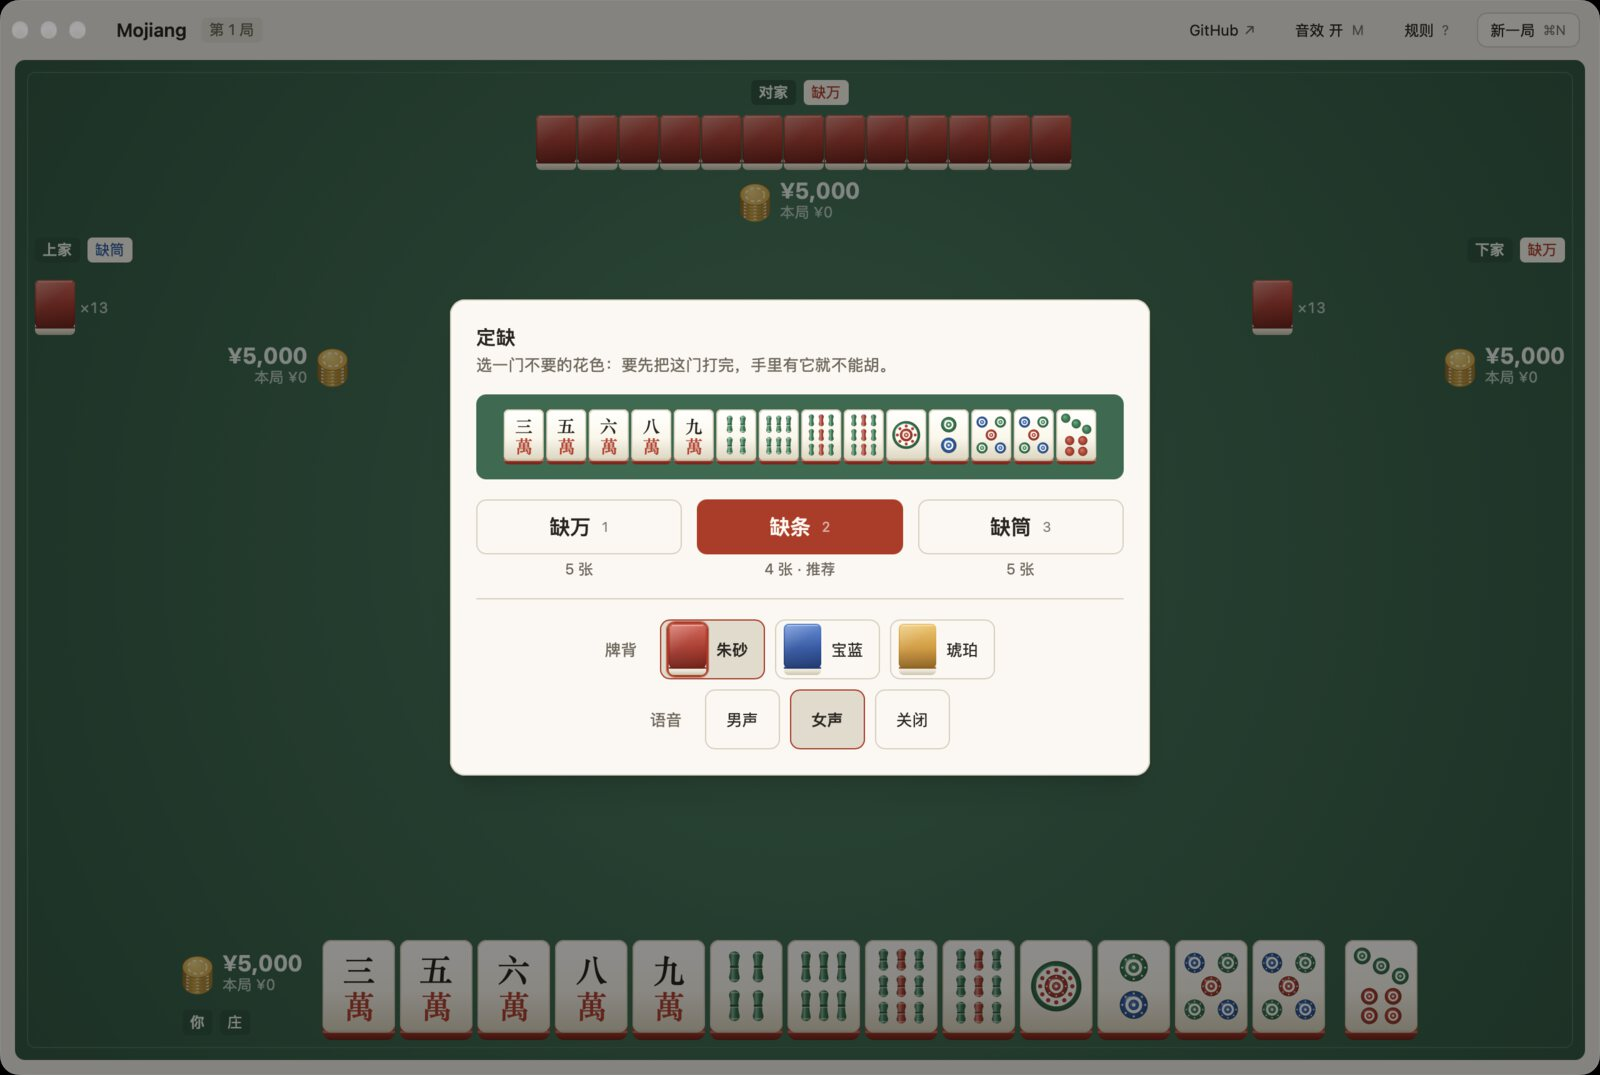
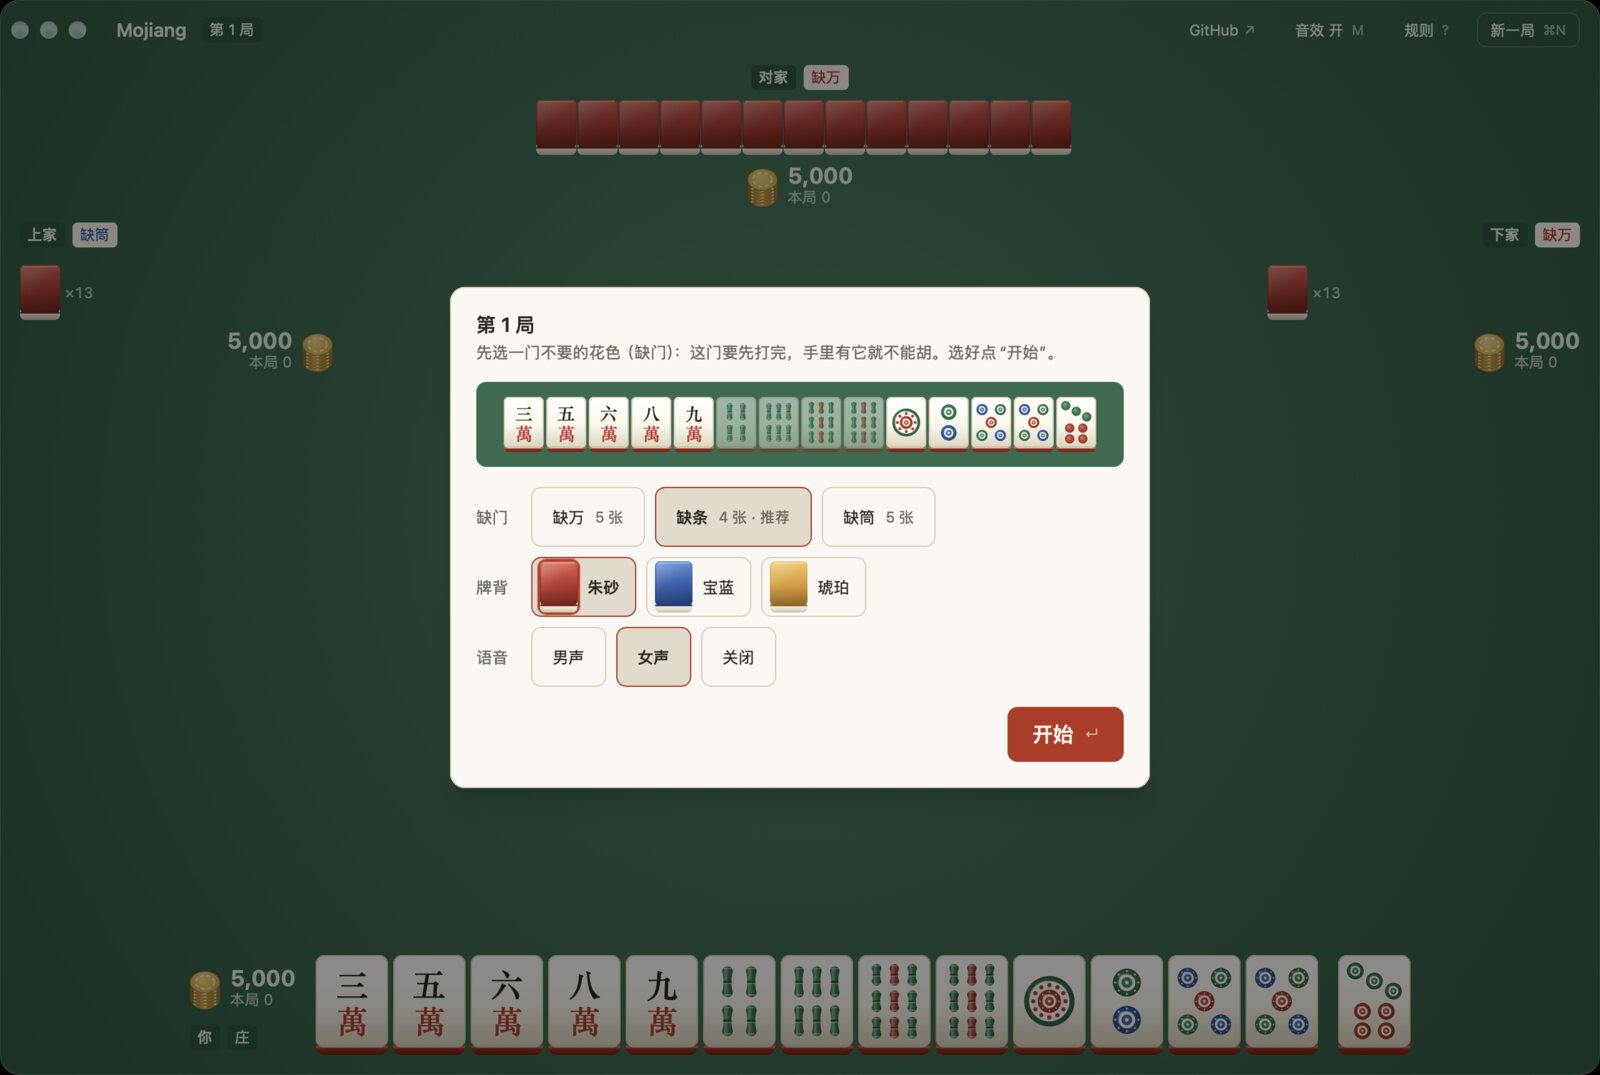
README: iPhone screenshot, screenshots of the current UI

diff --git a/README.md b/README.md
@@ -6,9 +6,13 @@
 
 ![牌桌（深色）](docs/screenshots/table-dark.jpg)
 
-| 开局定缺，选牌背和语音 | 一局结算 |
+| 开局：选缺门、牌背和语音，再点“开始” | 一局结算 |
 |---|---|
-| ![定缺](docs/screenshots/start-light.jpg) | ![结算](docs/screenshots/result-light.jpg) |
+| ![开局](docs/screenshots/start-light.jpg) | ![结算](docs/screenshots/result-light.jpg) |
+
+iPhone 横屏：
+
+![iPhone 上的牌桌](docs/screenshots/iphone.jpg)
 
 ## 安装
 
